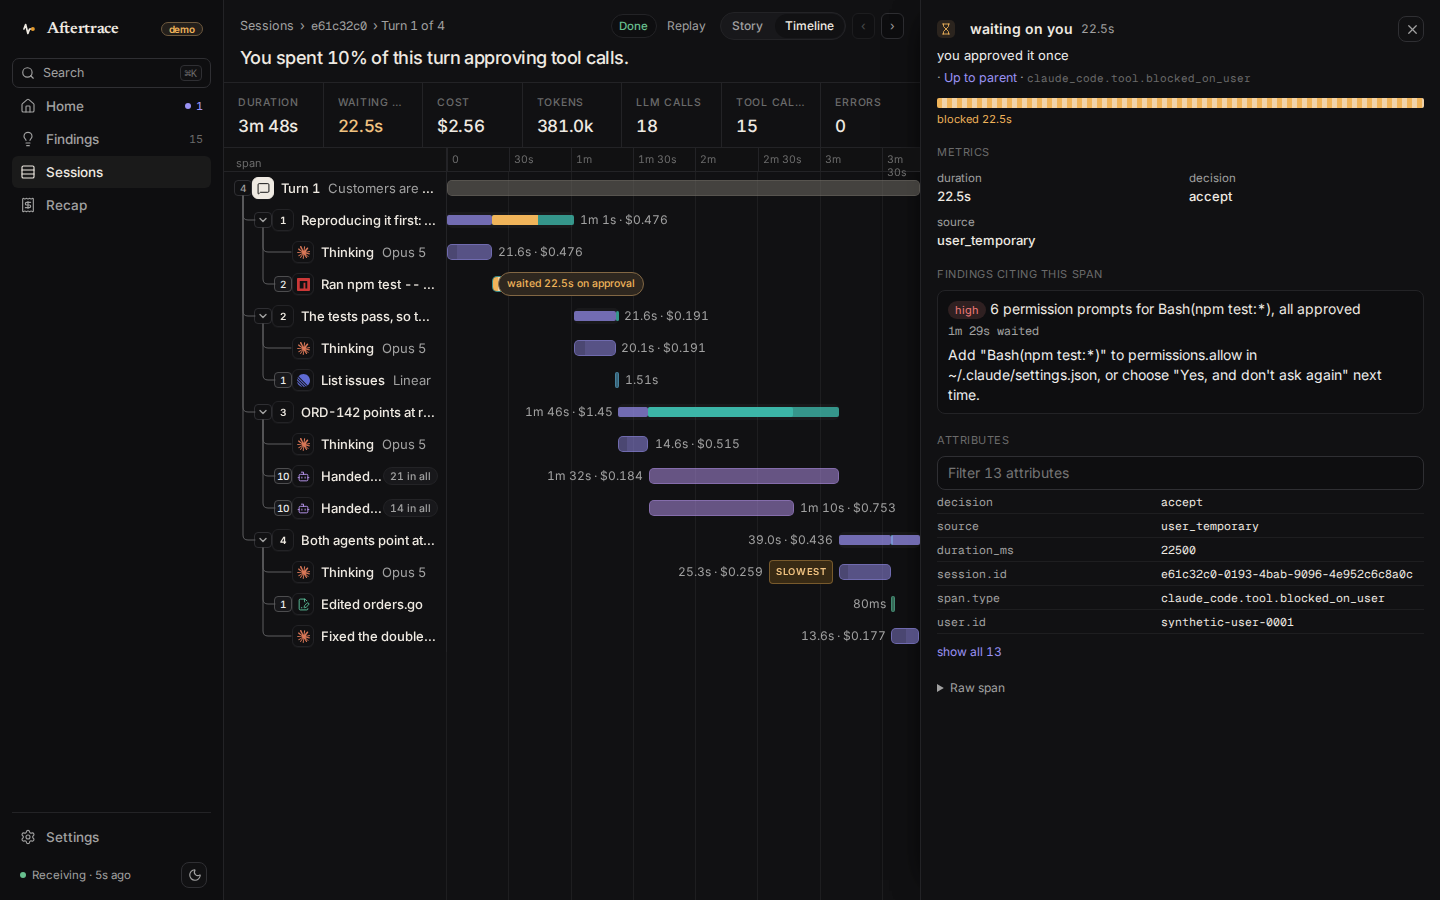
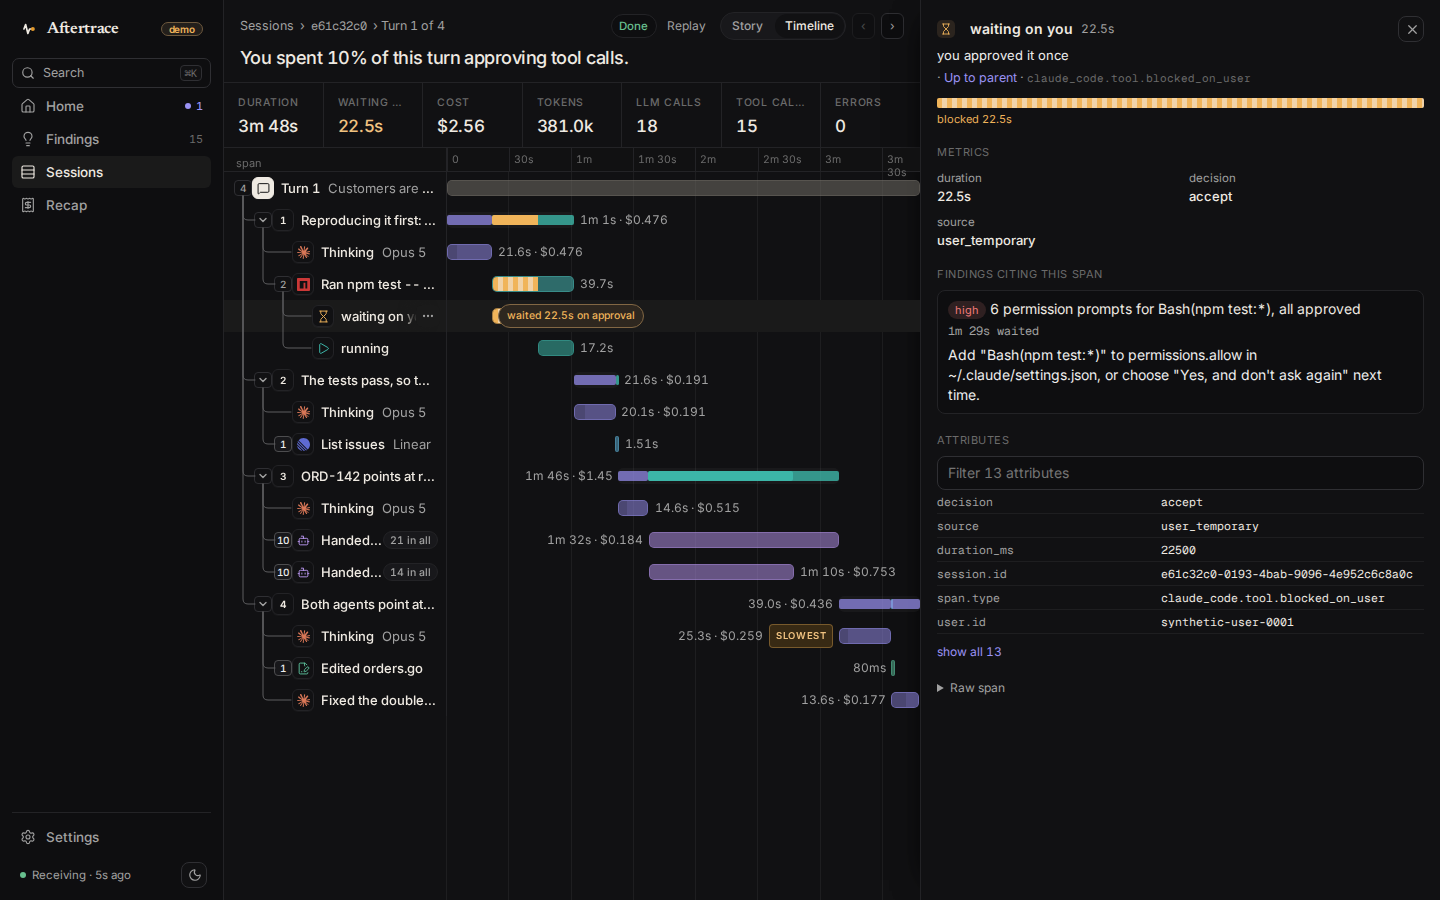
Stop the waterfall selected test collapsing the wait row
openSteps indexed .row.is-step by nth after each expand, so nested
subagent steps shifted the list and a later click could collapse a
step that had just been opened. The selected-pane test then toggled
the first Bash caret even when bottleneck evidence had already
expanded it; the waiting-on-you row left AnimatePresence and the
next click waited until the test timeout.

Changed region(s): [[0.3438, 0.28, 0.6562, 0.8089], [0.1562, 0.3422, 0.3125, 0.7467], [0.25, 0.7778, 0.2812, 0.8089]]

diff --git a/web/e2e/screenshots.spec.ts b/web/e2e/screenshots.spec.ts
@@ -53,14 +53,21 @@ async function shot(page: Page, name: string, theme: "light" | "dark", keepHover
 }
 
 // The timeline opens on closed steps; open them all to reach individual calls.
+// Expanding a step inserts nested is-step rows (subagents), so nth(i) after a
+// click points at a different row and can collapse one that was just opened.
 async function openSteps(page: Page) {
   await expect(page.locator(".row.is-step").first()).toBeVisible()
-  const n = await page.locator(".row.is-step").count()
-  for (let i = 0; i < n; i++) {
-    const caret = page.locator(".row.is-step").nth(i).locator(".caret")
-    if ((await caret.getAttribute("aria-expanded")) === "false") await page.locator(".row.is-step").nth(i).dispatchEvent("click")
-    await expect(caret).toHaveAttribute("aria-expanded", "true")
+  for (let guard = 0; guard < 40; guard++) {
+    const closed = page.locator(".row.is-step").filter({ has: page.locator(".caret[aria-expanded='false']") })
+    if ((await closed.count()) === 0) return
+    const row = closed.first()
+    const id = await row.getAttribute("data-span")
+    await row.dispatchEvent("click")
+    if (id) {
+      await expect(page.locator(`.row[data-span="${id}"] .caret`)).toHaveAttribute("aria-expanded", "true")
+    }
   }
+  throw new Error("openSteps: steps still closed")
 }
 
 test.beforeEach(async ({ page }) => {
@@ -189,12 +196,17 @@ test("waterfall selected: pane takes the budget", async ({ page }) => {
   await openSteps(page)
   const bash = page.locator(".row").filter({ has: page.locator(".glyph.g-bash") }).first()
   // A tool's wait and run phases are in its bar; opening it lists them as rows.
+  // Bottleneck evidence on this fixture already expands the wait's parent bash.
+  // Toggling that caret collapses it; the wait row exits AnimatePresence and
+  // the next click waits forever. Only expand when it is still closed.
   await expect(bash.locator(".n-pill")).toHaveCount(0)
-  await bash.locator(".caret").dispatchEvent("click")
-  const waitRow = page.locator(".row").filter({ hasText: "waiting on you" }).first()
+  const waitRow = page.locator(".row").filter({ has: page.locator(".name", { hasText: "waiting on you" }) }).first()
+  for (let i = 0; i < 8 && (await waitRow.count()) === 0; i++) {
+    const closedBash = page.locator(".row").filter({ has: page.locator(".glyph.g-bash") }).filter({ has: page.locator("button.caret[aria-expanded='false']") }).first()
+    if ((await closedBash.count()) === 0) break
+    await closedBash.locator("button.caret").dispatchEvent("click")
+  }
   await expect(waitRow).toBeVisible()
-  // Rows spring into place after each expand; click once they settle.
-  await page.waitForTimeout(500)
   await waitRow.dispatchEvent("click")
   // A click opens the card; its link opens the full inspector.
   await expect(page.locator(".span-card")).toBeVisible()
